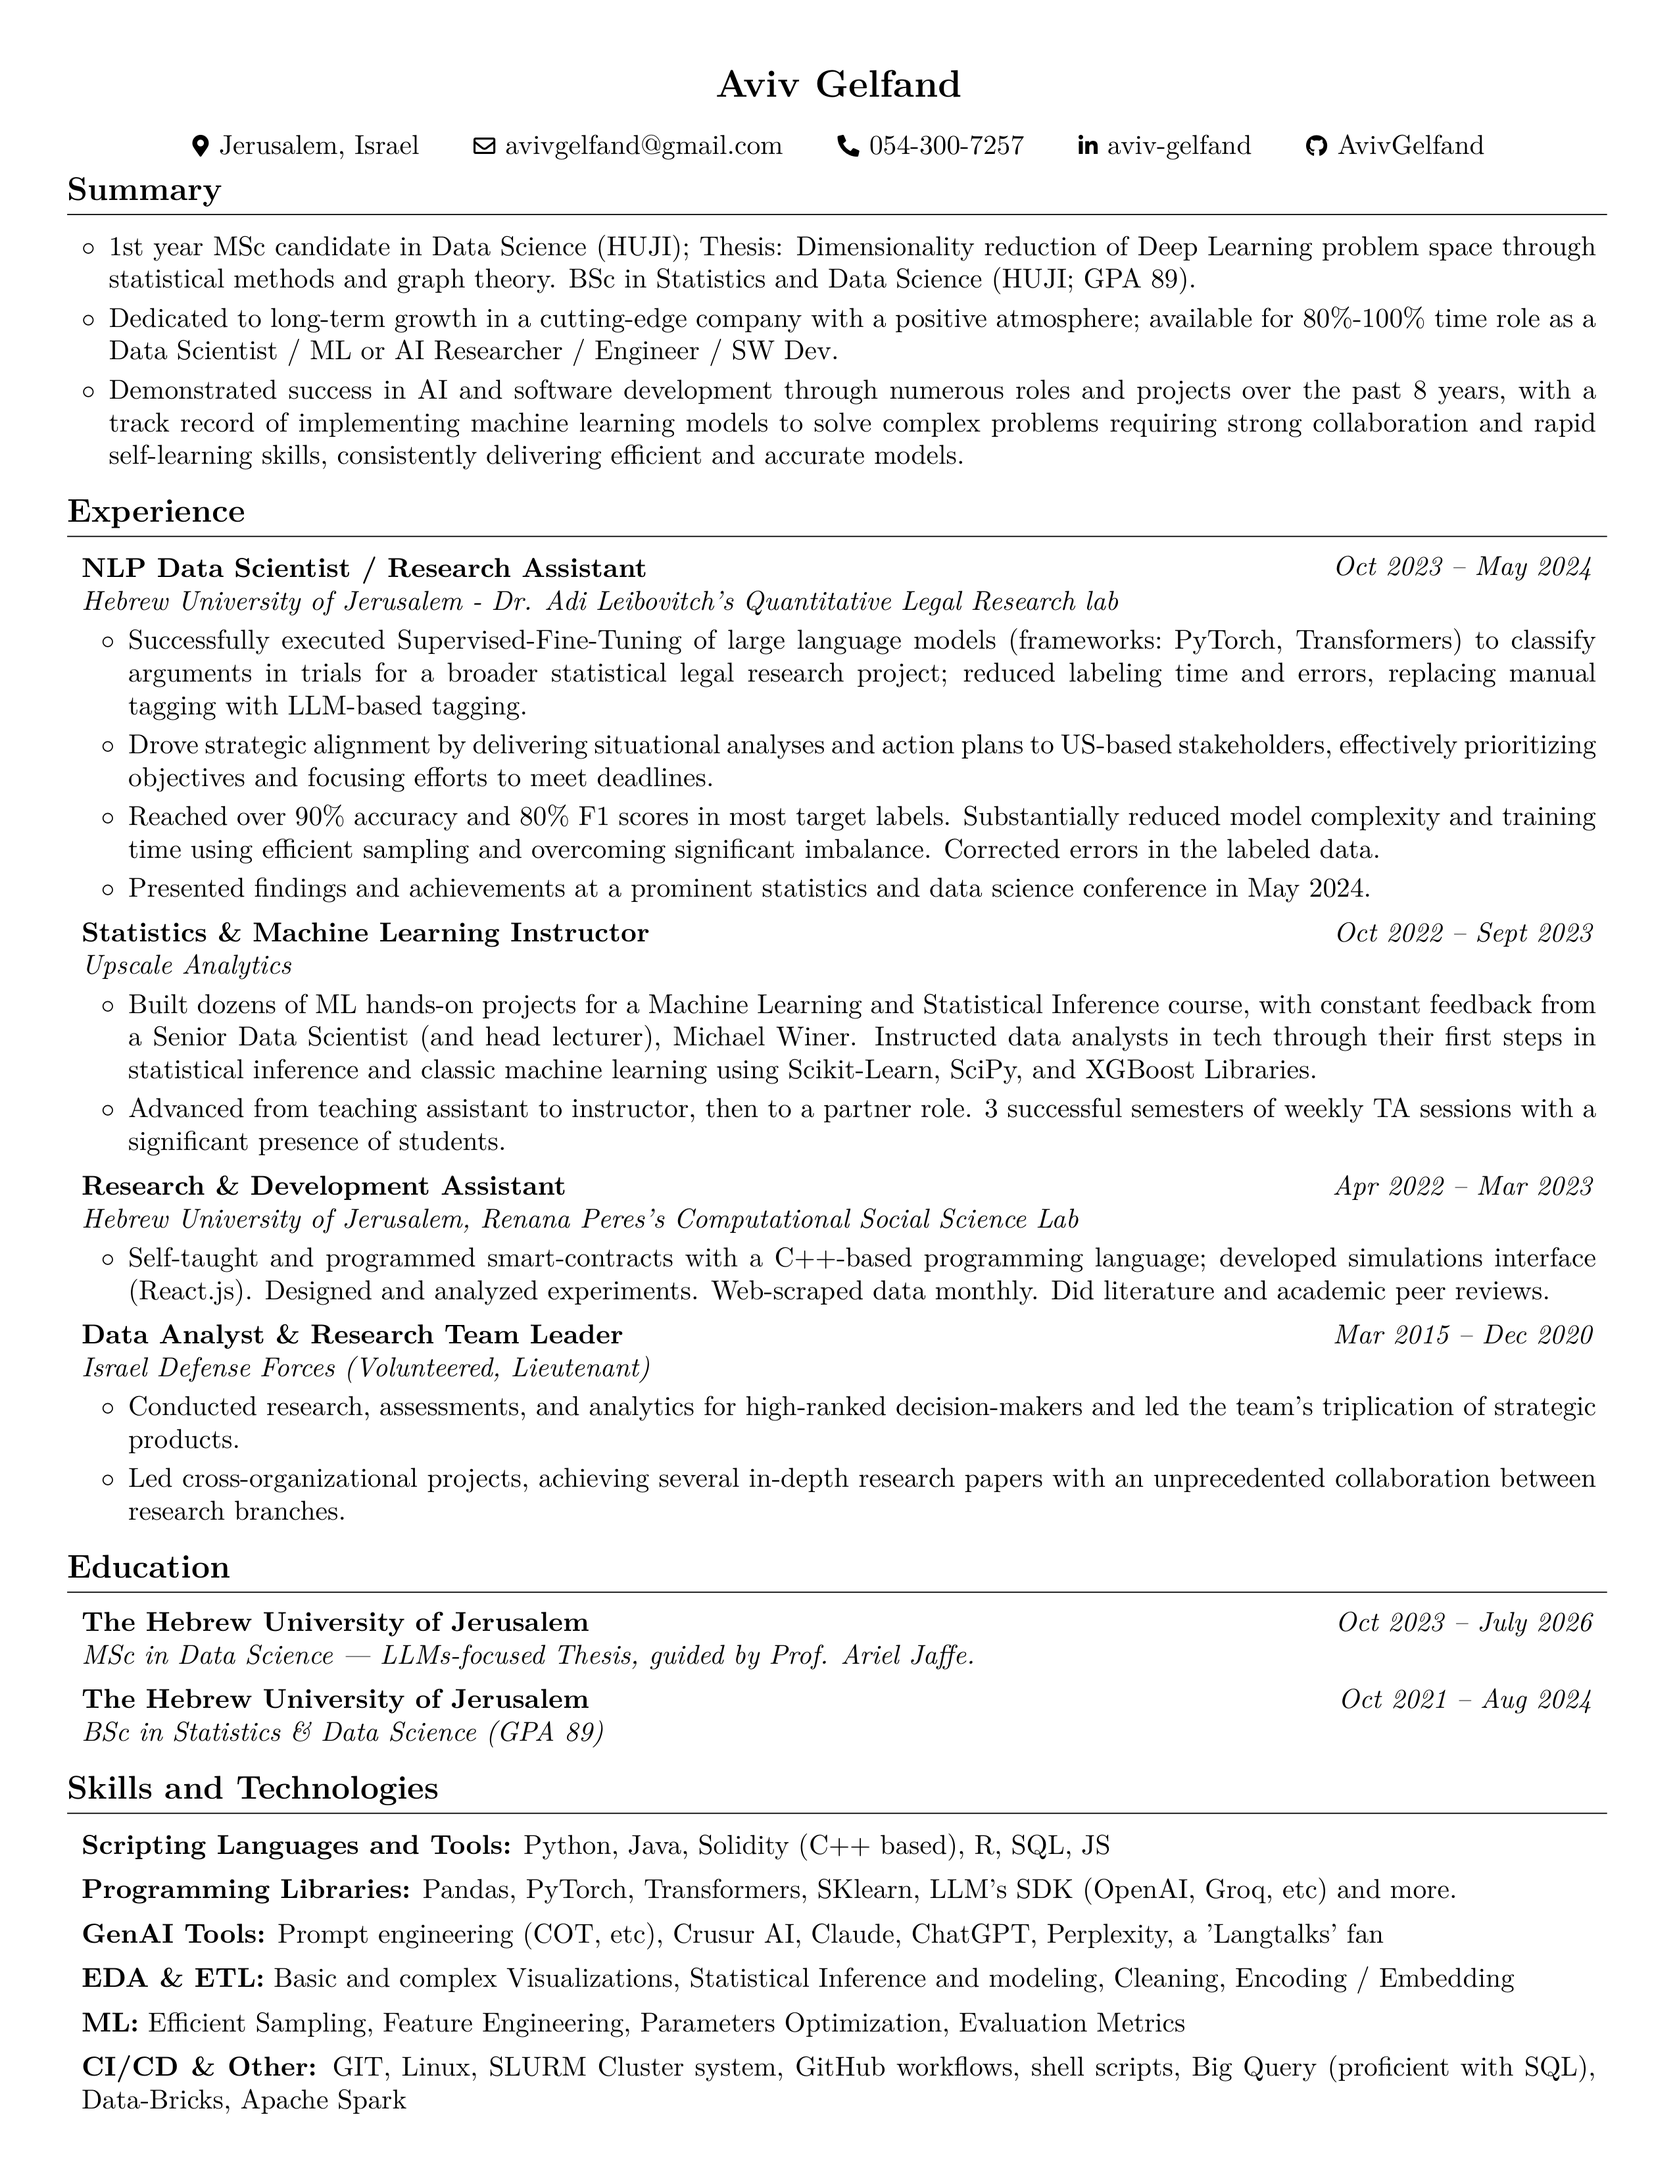
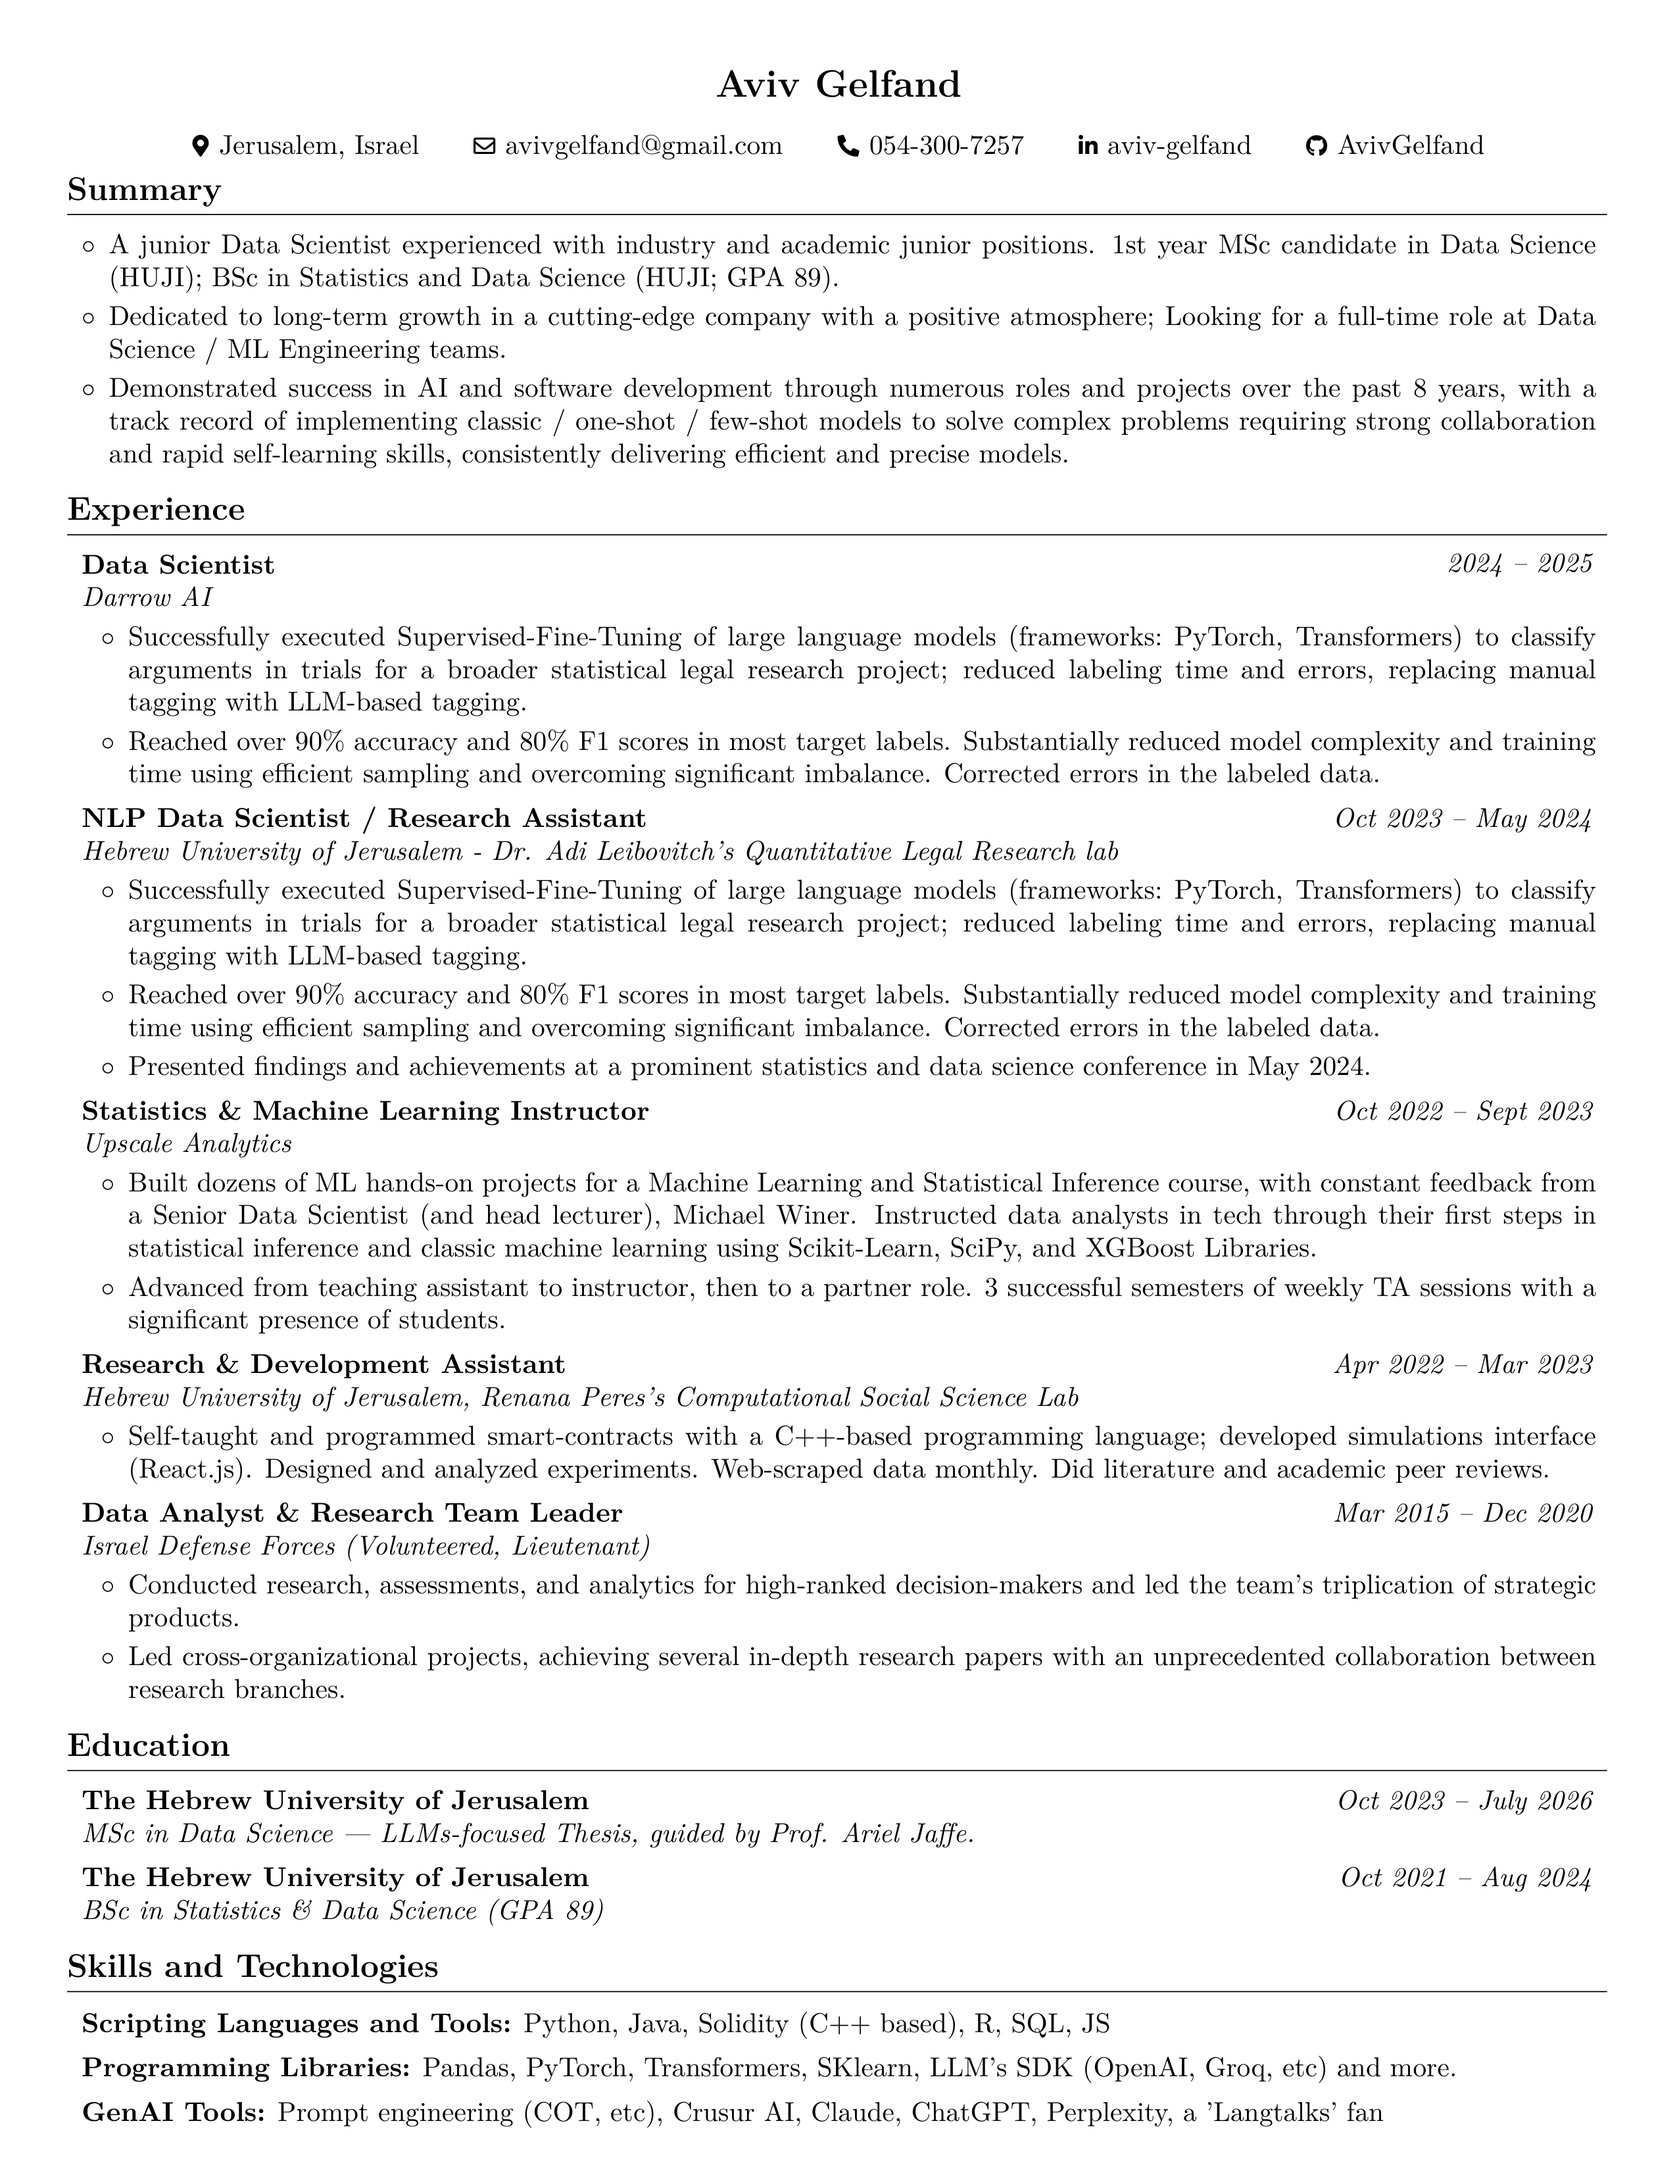
Render the latest CV

diff --git a/Aviv_Gelfand_CV.html b/Aviv_Gelfand_CV.html
@@ -47,6 +47,12 @@
         <li>Demonstrated success in AI and software development through numerous roles and projects over the past 8 years, with a track record of implementing classic / one-shot / few-shot models to solve complex problems requiring strong collaboration and rapid self-learning skills, consistently delivering efficient and precise models.</li>
         </ul>
         <h1>Experience</h1>
+        <h2>Darrow AI, Data Scientist</h2>
+        <ul>
+        <li>2024 – 2025</li>
+        <li>Successfully executed Supervised-Fine-Tuning of large language models (frameworks$:$ PyTorch, Transformers) to classify arguments in trials for a broader statistical legal research project; reduced labeling time and errors, replacing manual tagging with LLM-based tagging.</li>
+        <li>Reached over 90% accuracy and 80% F1 scores in most target labels. Substantially reduced model complexity and training time using efficient sampling and overcoming significant imbalance. Corrected errors in the labeled data.</li>
+        </ul>
         <h2>Hebrew University of Jerusalem - Dr. Adi Leibovitch's Quantitative Legal Research lab, NLP Data Scientist / Research Assistant</h2>
         <ul>
         <li>Oct 2023 – May 2024</li>

diff --git a/Aviv_Gelfand_CV.tex b/Aviv_Gelfand_CV.tex
@@ -199,6 +199,26 @@
         \begin{twocolentry}{
             
             
+        \textit{2024 – 2025}}
+            \textbf{Data Scientist}
+            
+            \textit{Darrow AI}
+        \end{twocolentry}
+
+        \vspace{0.08 cm}
+        \begin{onecolentry}
+            \begin{highlights}
+                \item Successfully executed Supervised-Fine-Tuning of large language models (frameworks$:$ PyTorch, Transformers) to classify arguments in trials for a broader statistical legal research project; reduced labeling time and errors, replacing manual tagging with LLM-based tagging.
+                \item Reached over 90\% accuracy and 80\% F1 scores in most target labels. Substantially reduced model complexity and training time using efficient sampling and overcoming significant imbalance. Corrected errors in the labeled data.
+            \end{highlights}
+        \end{onecolentry}
+
+
+        \vspace{0.15 cm}
+
+        \begin{twocolentry}{
+            
+            
         \textit{Oct 2023 – May 2024}}
             \textbf{NLP Data Scientist / Research Assistant}
             

diff --git a/README.md b/README.md
@@ -16,6 +16,12 @@
 - Demonstrated success in AI and software development through numerous roles and projects over the past 8 years, with a track record of implementing classic / one-shot / few-shot models to solve complex problems requiring strong collaboration and rapid self-learning skills, consistently delivering efficient and precise models.
 # Experience
 
+## Darrow AI, Data Scientist
+
+- 2024 – 2025
+- Successfully executed Supervised-Fine-Tuning of large language models (frameworks$:$ PyTorch, Transformers) to classify arguments in trials for a broader statistical legal research project; reduced labeling time and errors, replacing manual tagging with LLM-based tagging.
+- Reached over 90% accuracy and 80% F1 scores in most target labels. Substantially reduced model complexity and training time using efficient sampling and overcoming significant imbalance. Corrected errors in the labeled data.
+
 ## Hebrew University of Jerusalem - Dr. Adi Leibovitch's Quantitative Legal Research lab, NLP Data Scientist / Research Assistant
 
 - Oct 2023 – May 2024
